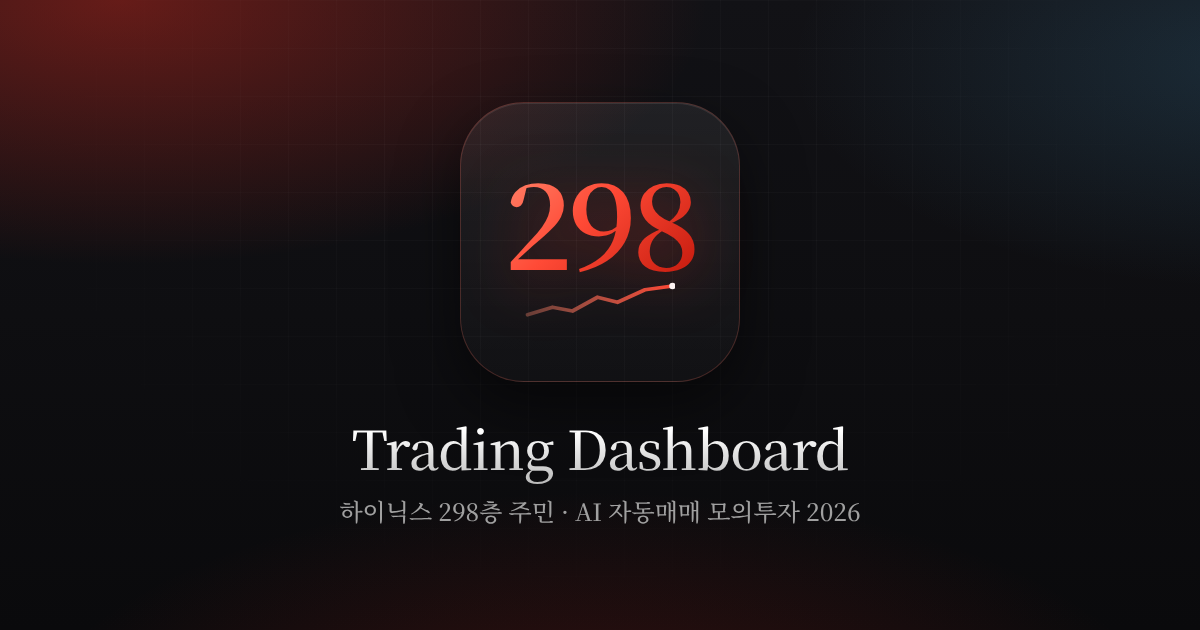
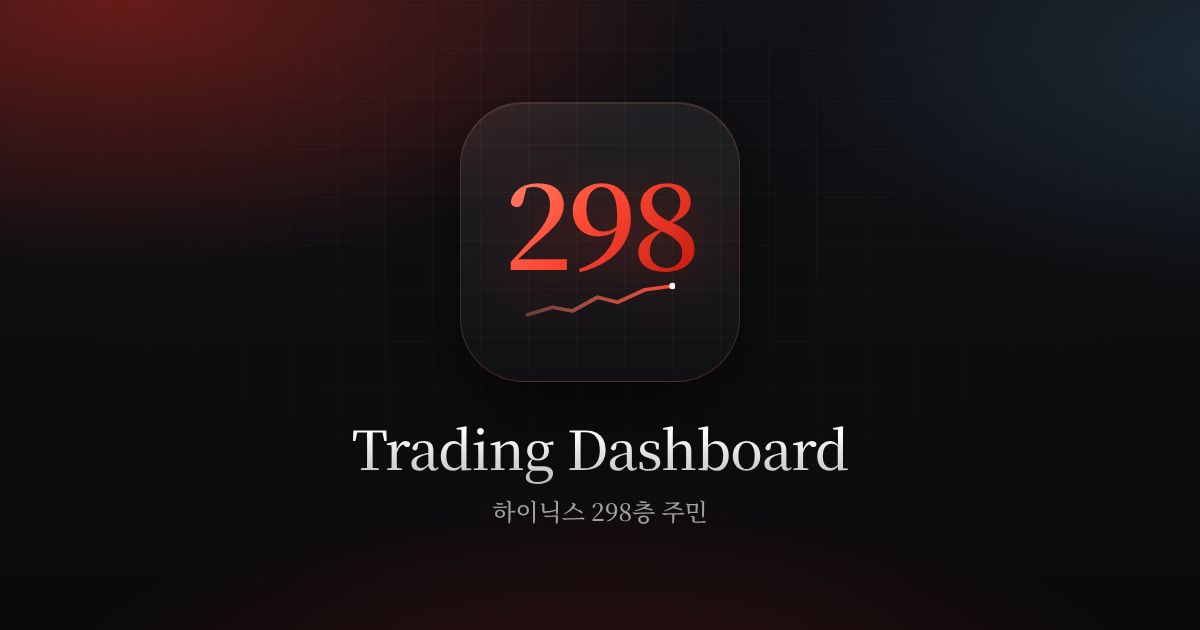
Preview image: keep only team name under the title
Claude-Session: https://claude.ai/code/session_01ATjxQoK5Nx8MMehDTK7qFa

Changed region(s): [[0.37, 0.7841, 0.7092, 0.8444], [0.2775, 0.7841, 0.3392, 0.8444]]

diff --git a/docs/index.html b/docs/index.html
@@ -12,12 +12,12 @@
 <meta property="og:type" content="website">
 <meta property="og:url" content="https://isopink.github.io/hynix-298f/">
 <meta property="og:site_name" content="Duo's Trading Dashboard">
-<meta property="og:image" content="https://isopink.github.io/hynix-298f/og.png">
+<meta property="og:image" content="https://isopink.github.io/hynix-298f/og.png?v=2">
 <meta property="og:image:width" content="1200">
 <meta property="og:image:height" content="630">
 <meta property="og:image:alt" content="298 로고 · Trading Dashboard">
 <meta name="twitter:card" content="summary_large_image">
-<meta name="twitter:image" content="https://isopink.github.io/hynix-298f/og.png">
+<meta name="twitter:image" content="https://isopink.github.io/hynix-298f/og.png?v=2">
 <link rel="icon" type="image/png" sizes="32x32" href="favicon-32.png">
 <link rel="icon" type="image/png" sizes="512x512" href="icon-512.png">
 <link rel="apple-touch-icon" href="apple-touch-icon.png">
